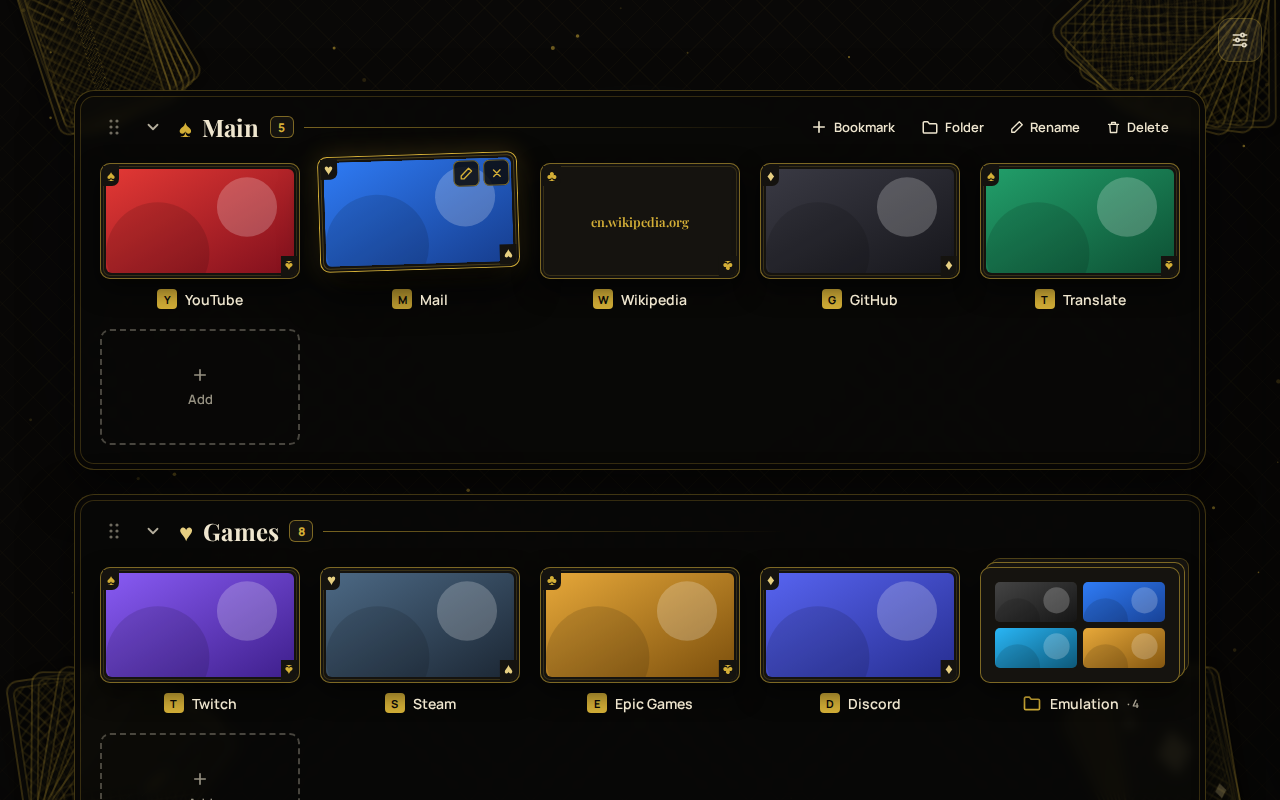
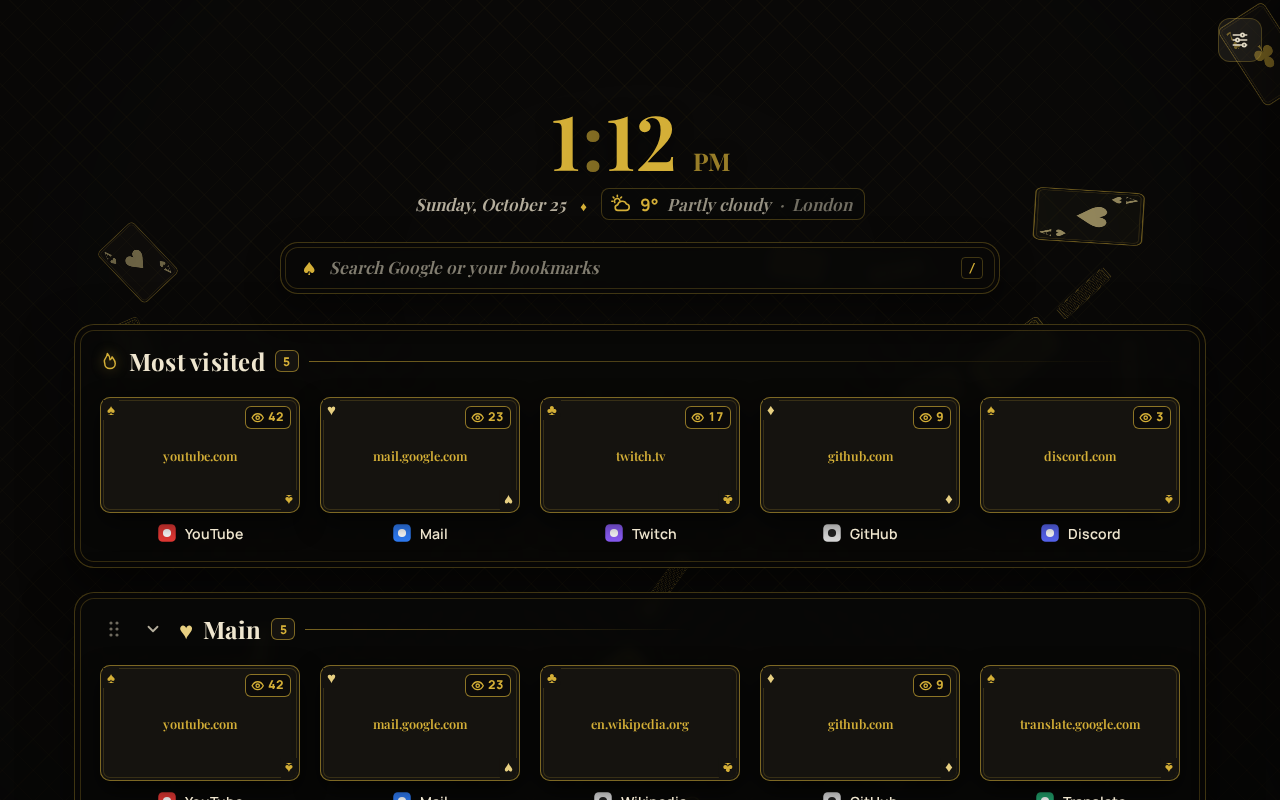
GX Dial 2.11.0: new screenshots, visit counter and clock in README
- Theme screenshots updated to the current look: clock, weather and visit counter; Calm is the rebuilt layout.
- New picture visits.png: the Most visited row and the By visits button.
- README (EN and RU): feature list and a visit counter section.

Claude-Session: https://claude.ai/code/session_01TckKzjkMv8g3iEUN6fdW4z

diff --git a/README.ru.md b/README.ru.md
@@ -18,6 +18,8 @@
 - **Разделы** — группируйте закладки; показывайте их списком или вкладками. Переименование, сворачивание, порядок перетаскиванием.
 - **Папки внутри разделов** — папка выглядит как плитка с превью 2×2 и раскрывается прямо под своим рядом. Чтобы положить плитку в папку, перетащите её на папку.
 - **Строка поиска** — ищет в Google и сразу по вашим закладкам: просто начните печатать в любом месте, подходящие плитки подсветятся. Адрес сайта открывается напрямую. В каждой теме выглядит по-своему.
+- **Счётчик посещений** — сколько раз открыта каждая закладка. Ряд «Часто открываю» над разделами показывает самые открываемые, а кнопка «По посещениям» в шапке раздела выстраивает его по частоте. Выключается в настройках.
+- **Часы, дата и погода** над строкой поиска, в стиле каждой темы. Погода необязательна и берётся из открытых сервисов (см. «Конфиденциальность»).
 - **Перетаскивание везде** — меняйте порядок плиток, переносите их между разделами, папками и вкладками.
 - **Свои картинки на плитках** — с компьютера или по ссылке, «заполнить» или «вписать».
 - **Обложки для плиток без картинки** — адрес сайта, крупный значок со свечением, фирменный цвет сайта, уникальный узор или огромная буква. Цвет берётся из значка сайта, узор у каждого сайта свой.
@@ -43,6 +45,10 @@
 ### Поиск
 
 ![Поиск](docs/images/search.png)
+
+### Счётчик посещений
+
+![Счётчик посещений](docs/images/visits.png)
 
 ### Обложки для плиток без картинки
 

diff --git a/README.md b/README.md
@@ -18,6 +18,8 @@ four themes and live animated backgrounds.
 - **Sections** — group your bookmarks; show them as a list or as tabs. Rename, collapse, reorder by drag & drop.
 - **Folders inside sections** — a folder looks like a tile with a 2×2 preview and unfolds right under its row. Drop a tile onto a folder to put it inside.
 - **Search bar** — searches Google and your bookmarks at once: just start typing anywhere, matching tiles light up. Type an address to open it directly. Styled to match each theme.
+- **Visit counter** — how many times each bookmark has been opened. The *Most visited* row above the sections shows your favourites, and the *By visits* button in a section header sorts it by frequency. Can be turned off in settings.
+- **Clock, date and weather** above the search bar, styled for each theme. Weather is optional and comes from open services (see Privacy).
 - **Drag & drop everywhere** — reorder tiles, move them between sections, folders and tabs.
 - **Your own images on tiles** — from your computer or by URL, *cover* or *contain*.
 - **Covers for tiles without an image** — the site address, a big glowing icon, the site's own color, a unique generated pattern or a giant letter. The color is taken from the site's icon; each site gets its own pattern.
@@ -43,6 +45,10 @@ four themes and live animated backgrounds.
 ### Search
 
 ![Search](docs/images/search.png)
+
+### Visit counter
+
+![Visit counter](docs/images/visits.png)
 
 ### Covers for tiles without an image
 
